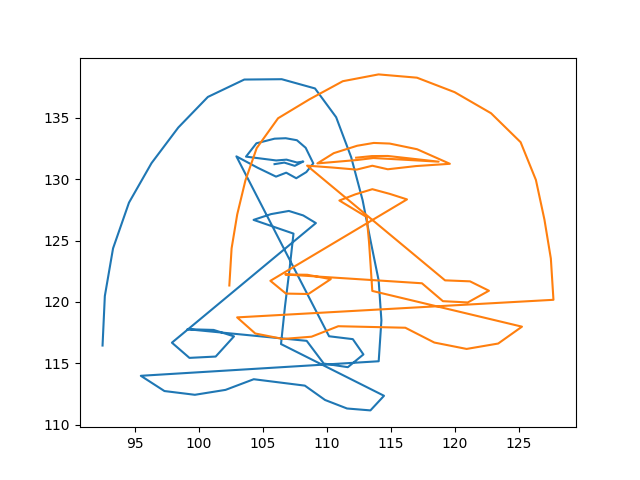
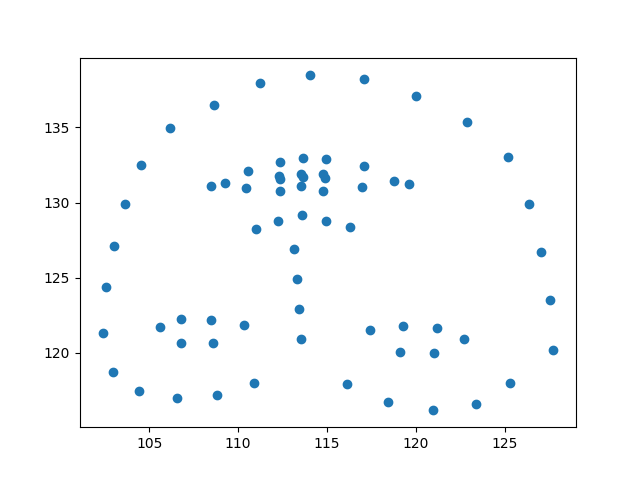
merge and new plots

diff --git a/scripts/DDNet.py b/scripts/DDNet.py
@@ -81,13 +81,13 @@ for video in x_train:
 	for frame in video:
 		train_landmarks_subject.append(np.asarray(frame[0:136]))
 		train_landmarks_actor.append(np.asarray(frame[136:272]))
-		train_audio.append(np.asarray([f for f in frame[272:5272]]))
+		train_audio.append(np.asarray(frame[272:5272]))
 
 for video in x_validation:
 	for frame in video:
 		validation_landmarks_subject.append(np.asarray(frame[0:136]))
 		validation_landmarks_actor.append(np.asarray(frame[136:272]))
-		validation_audio.append(np.asarray([f for f in frame[272:5272]]))
+		validation_audio.append(np.asarray(frame[272:5272]))
 
 temp = []
 for video in y_train:
@@ -114,14 +114,14 @@ validation_fused_faces = np.asarray(validation_fused_faces)
 
 # 2 Create and Train Face Feature Extractor (NEEDS TUNING ~ HARDCODED HYPERPARAMETERS)
 faceFeatureExtractor = CreateRegressor(input_neurons = len(train_fused_faces[0]), output_neurons=100,hidden_layers=10,learning_rate=0.1, optimizer='adam',hidden_neurons=int((136+1)/2))
-faceFeatureExtractor = trainRegressor(faceFeatureExtractor,train_fused_faces,y_train,epochs=250,batches= 500)
+faceFeatureExtractor = trainRegressor(faceFeatureExtractor,train_fused_faces,y_train,epochs=100,batches= 500)
 print('Fused Faces Accuracy: {}%'.format(faceFeatureExtractor.evaluate(validation_fused_faces,y_validation, verbose=1)[1]*100))
 
 
 # 3 Create and Train audio Feature Extractor
 audioFeatureExtractor = CreateRegressor(input_neurons = len(train_audio[0]), output_neurons=100,hidden_layers=2,learning_rate=0.001, optimizer='adam',hidden_neurons=int((len(train_audio[0])+1)/2))
-audioFeatureExtractor = trainRegressor(audioFeatureExtractor,train_audio,y_train,epochs=100,batches= 500)
-print('Audio Accuracy: {}%'.format(audioFeatureExtractor.evaluate(validation_audio,y_validation, verbose=1)[1]*100))
+audioFeatureExtractor = trainRegressor(audioFeatureExtractor,np.asarray(train_audio),y_train,epochs=100,batches= 500)
+print('Audio Accuracy: {}%'.format(audioFeatureExtractor.evaluate(np.asarray(validation_audio),y_validation, verbose=1)[1]*100))
 
 # 4 Crete Deep feature Container
 train_faceFeatures,train_audioFeatures = [],[]

diff --git a/scripts/plot_faces_vs_fused_face.py b/scripts/plot_faces_vs_fused_face.py
@@ -51,11 +51,13 @@ for i in range(0,len(train_landmarks_subject[0]),2):
 	x2_lm.append(train_landmarks_actor[0][i])
 	y2_lm.append(train_landmarks_actor[0][i+1])
 
-plt.plot(x_lm,y_lm)
+plt.scatter(x_lm,y_lm)
 plt.savefig('../data/Visualization/face_subject.png')
+plt.clf()
 
-plt.plot(x2_lm, y2_lm)
+plt.scatter(x2_lm, y2_lm)
 plt.savefig('../data/Visualization/face_actor.png')
+plt.clf()
 
 # 1 Fuse both faces (landmarks)
 train_fused_faces = []
@@ -70,5 +72,5 @@ for i in range(0,len(train_fused_faces[0]),2):
 	x3_lm.append(train_fused_faces[0][i])
 	y3_lm.append(train_fused_faces[0][i+1])
 
-plt.plot(x3_lm,y3_lm)
+plt.scatter(x3_lm,y3_lm)
 plt.savefig('../data/Visualization/face_fused.png')
